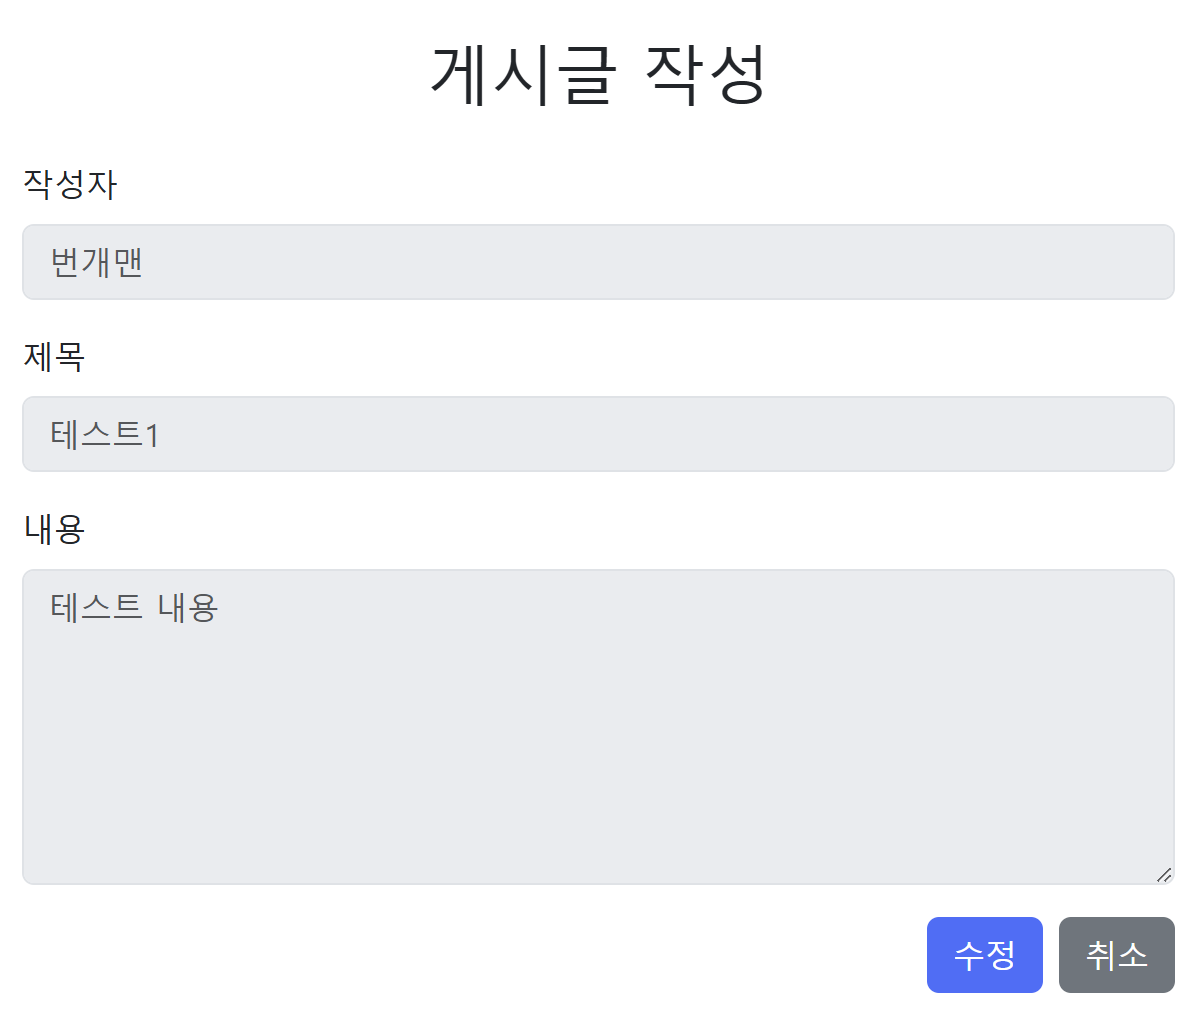
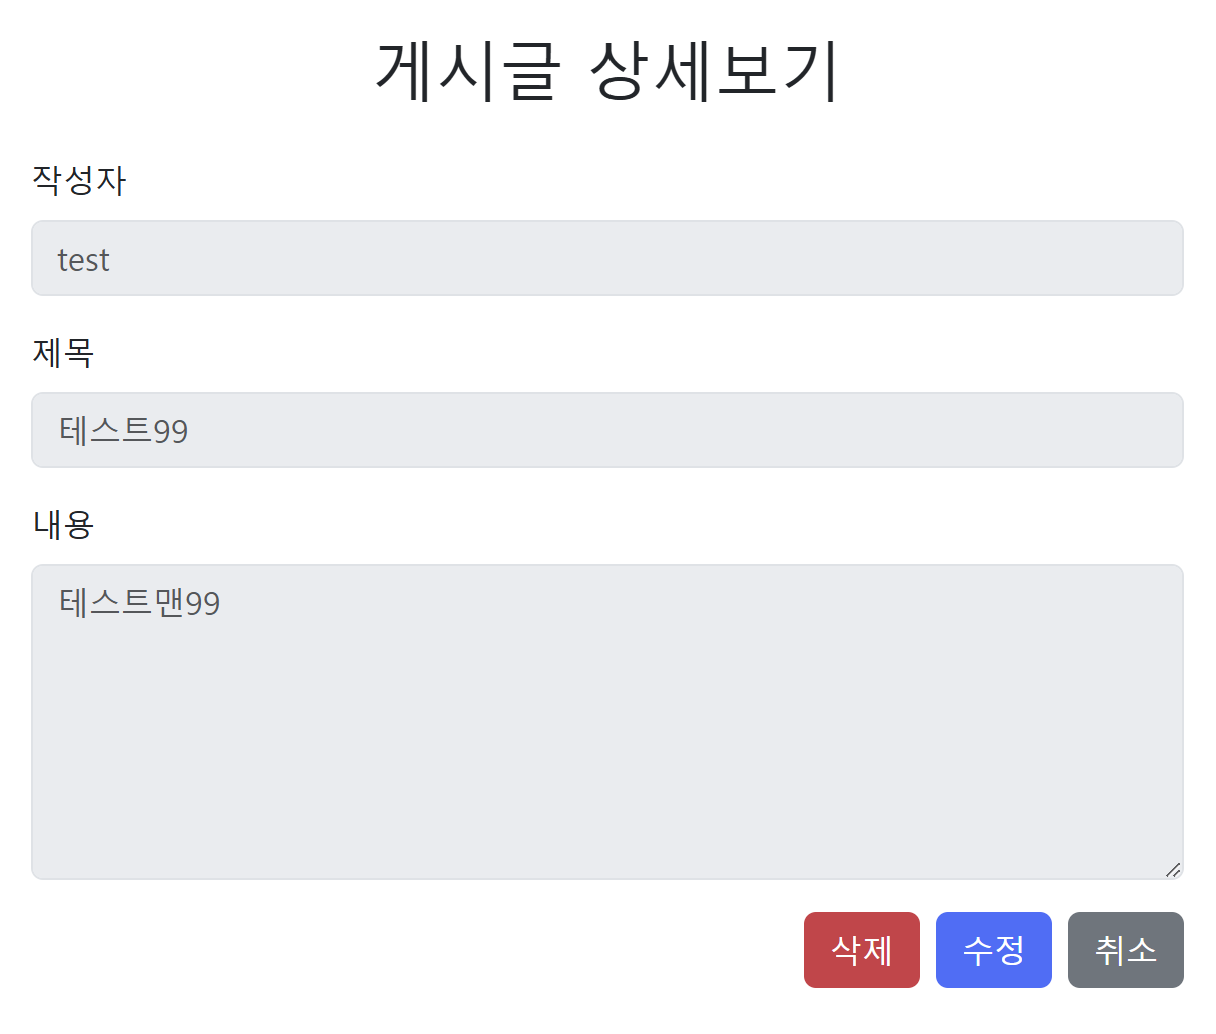
update readme

diff --git a/src/main/resources/templates/boardview.html b/src/main/resources/templates/boardview.html
@@ -18,7 +18,7 @@
 <body>
 
 <div class="container py-5 mt-5" style="max-width: 600px;">
-  <h2 class="text-center mb-4">게시글 작성</h2>
+  <h2 class="text-center mb-4">게시글 상세보기</h2>
 
   <form th:action method="post" th:object="${post}">
     <!-- 제목 입력 -->

diff --git a/README.md b/README.md
@@ -11,8 +11,8 @@
   + [프론트엔드](#프론트엔드)
 + [실행화면](#4-실행-화면)
 + [구조 및 설계](#5-구조-및-설계)
-  + API 설계
-  + DB 설계
+  + [API 설계](#api-명세서)
+  + [DB 설계](#데이터베이스-erd)
 
 ## 업데이트  
 + 3/27 게시판 수정기능 추가
@@ -20,11 +20,8 @@
 + 3/31 조회수 기능 추가
 + 3/31 게시판 삭제기능 추가
 ## 추가할 기능
-+ 게시판 페이징 기능(3/29완료)
-+ 댓글 기능  
-+ 조회수(3/31 완료)
++ 댓글 기능
 + 게시글 수정하면 수정 날짜갱신
-+ 게시판 삭제기능(3/31 완료)
 
 # 1. 프로젝트 소개
 게시판 프로젝트는 백엔드 기본기를 다지기 좋은 프로젝트이며 전반적인 웹 흐름에 대해 공부하기 위해 프로젝트를 만들게 되었습니다.
@@ -34,7 +31,9 @@
 + 로그인 / 로그인 검증  
 + 게시판작성 / 제목,내용 검증
 + 게시판 조회/수정
-+ 게시판 페이지 목록(3/29추가)
++ 게시판 페이지 목록(3/29 추가)
++ 게시판 삭제(3/31 추가)
+
 # 3. 사용 기술
 ### 백엔드(JAVA 17)
 프레임워크 / 라이브러리  
@@ -73,7 +72,6 @@
 ![img.png](img/loginMain.png)
 ### 게시글 상세보기
 ![img_1.png](img/view.png)
-
 ### 게시글 수정
 ![img_2.png](img/update.png)
 </details>
